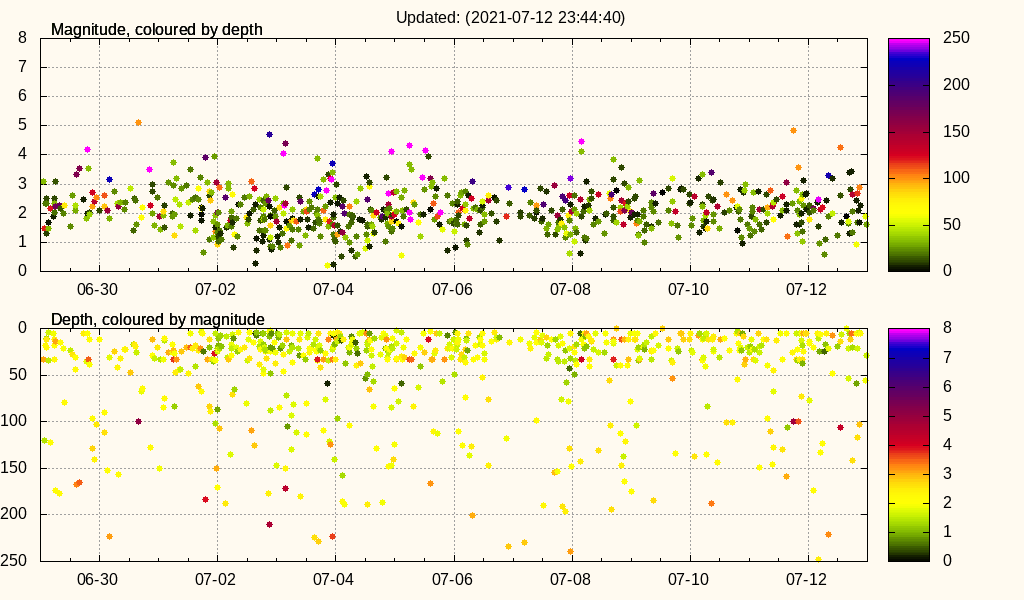
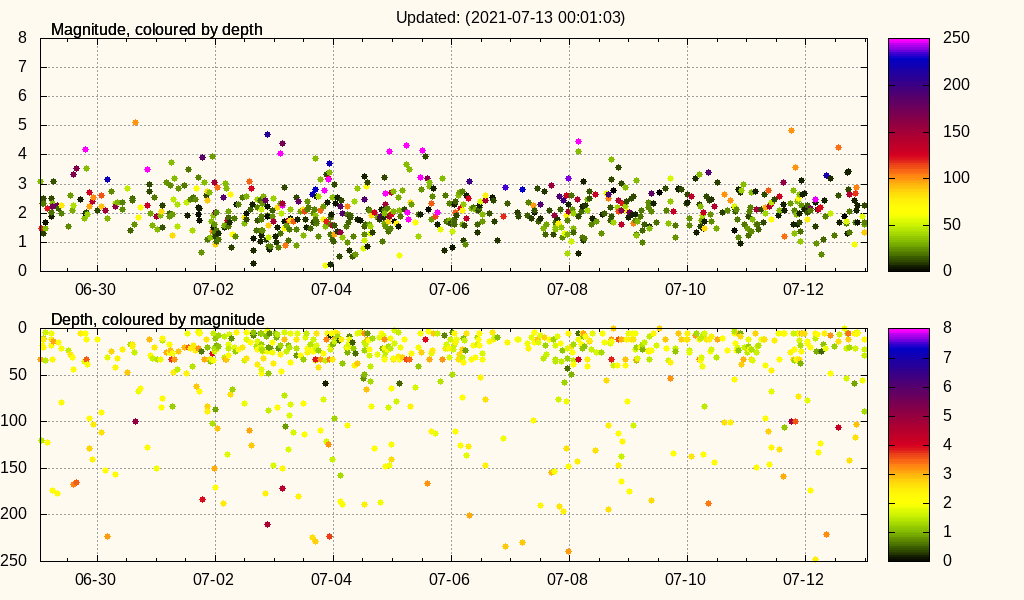
Quarter hourly

diff --git a/x-image.html b/x-image.html
@@ -38,9 +38,9 @@ td.border { border: 1px #330000 dashed; }
 <center>[ &lt;<a href="index.html" title="Main">Main</a>&gt; | &lt;<a href="image.html" title="Here">Re-load</a>&gt; ]</center>
 <dl><dt>All images on this page are in 2 parts:</dt> <dd>The upper part displays magnitude, coloured by depth.</dd> <dd>The lower part displays depth, coloured by magnitude.</dd></dl>
 <table summary="">
-<tr><td class="border"><table summary=""><tr><th align="left">Period</th> <td>:</td> <td>1 week</td></tr> <tr><td>Creation date</td> <td>:</td> <td>2021-07-12 23:44:41</td></tr></table> <a href="x-depth-magnitude-multiplot_week_0001.png" title="1 week" target="_blank"><img src="x-depth-magnitude-multiplot_week_0001.png" alt="1 week" title="1 week" /></a></td></tr>
-<tr><td class="border"><table summary=""><tr><th align="left">Period</th> <td>:</td> <td>2 weeks</td></tr> <tr><td>Creation date</td> <td>:</td> <td>2021-07-12 23:44:41</td></tr></table> <a href="x-depth-magnitude-multiplot_week_0002.png" title="2 weeks" target="_blank"><img src="x-depth-magnitude-multiplot_week_0002.png" alt="2 weeks" title="2 weeks" /></a></td></tr>
-<tr><td class="border"><table summary=""><tr><th align="left">Period</th> <td>:</td> <td>4 weeks</td></tr> <tr><td>Creation date</td> <td>:</td> <td>2021-07-12 23:44:41</td></tr></table> <a href="x-depth-magnitude-multiplot_week_0004.png" title="4 weeks" target="_blank"><img src="x-depth-magnitude-multiplot_week_0004.png" alt="4 weeks" title="4 weeks" /></a></td></tr>
+<tr><td class="border"><table summary=""><tr><th align="left">Period</th> <td>:</td> <td>1 week</td></tr> <tr><td>Creation date</td> <td>:</td> <td>2021-07-13 00:01:04</td></tr></table> <a href="x-depth-magnitude-multiplot_week_0001.png" title="1 week" target="_blank"><img src="x-depth-magnitude-multiplot_week_0001.png" alt="1 week" title="1 week" /></a></td></tr>
+<tr><td class="border"><table summary=""><tr><th align="left">Period</th> <td>:</td> <td>2 weeks</td></tr> <tr><td>Creation date</td> <td>:</td> <td>2021-07-13 00:01:04</td></tr></table> <a href="x-depth-magnitude-multiplot_week_0002.png" title="2 weeks" target="_blank"><img src="x-depth-magnitude-multiplot_week_0002.png" alt="2 weeks" title="2 weeks" /></a></td></tr>
+<tr><td class="border"><table summary=""><tr><th align="left">Period</th> <td>:</td> <td>4 weeks</td></tr> <tr><td>Creation date</td> <td>:</td> <td>2021-07-13 00:01:04</td></tr></table> <a href="x-depth-magnitude-multiplot_week_0004.png" title="4 weeks" target="_blank"><img src="x-depth-magnitude-multiplot_week_0004.png" alt="4 weeks" title="4 weeks" /></a></td></tr>
 <tr><td class="border"><table summary=""><tr><th align="left">Period</th> <td>:</td> <td>8 weeks</td></tr> <tr><td>Creation date</td> <td>:</td> <td>2021-07-12 23:17:02</td></tr></table> <a href="x-depth-magnitude-multiplot_week_0008.png" title="8 weeks" target="_blank"><img src="x-depth-magnitude-multiplot_week_0008.png" alt="8 weeks" title="8 weeks" /></a></td></tr>
 <tr><td class="border"><table summary=""><tr><th align="left">Period</th> <td>:</td> <td>16 weeks</td></tr> <tr><td>Creation date</td> <td>:</td> <td>2021-07-12 23:17:02</td></tr></table> <a href="x-depth-magnitude-multiplot_week_0016.png" title="16 weeks" target="_blank"><img src="x-depth-magnitude-multiplot_week_0016.png" alt="16 weeks" title="16 weeks" /></a></td></tr>
 <tr><td class="border"><table summary=""><tr><th align="left">Period</th> <td>:</td> <td>64 weeks</td></tr> <tr><td>Creation date</td> <td>:</td> <td>2021-07-12 23:17:02</td></tr></table> <a href="x-depth-magnitude-multiplot_week_0064.png" title="64 weeks" target="_blank"><img src="x-depth-magnitude-multiplot_week_0064.png" alt="64 weeks" title="64 weeks" /></a></td></tr>

diff --git a/image.html b/image.html
@@ -38,9 +38,9 @@ td.border { border: 1px #330000 dashed; }
 <center>[ &lt;<a href="index.html" title="Main">Main</a>&gt; | &lt;<a href="image.html" title="Here">Re-load</a>&gt; ]</center>
 <dl><dt>All images on this page are in 2 parts:</dt> <dd>The upper part displays magnitude, coloured by depth.</dd> <dd>The lower part displays depth, coloured by magnitude.</dd></dl>
 <table summary="">
-<tr><td class="border"><table summary=""><tr><th align="left">Period</th> <td>:</td> <td>1 week</td></tr> <tr><td>Creation date</td> <td>:</td> <td>2021-07-12 23:44:41</td></tr></table> <a href="depth-magnitude-multiplot_week_0001.png" title="1 week" target="_blank"><img src="depth-magnitude-multiplot_week_0001.png" alt="1 week" title="1 week" /></a></td></tr>
-<tr><td class="border"><table summary=""><tr><th align="left">Period</th> <td>:</td> <td>2 weeks</td></tr> <tr><td>Creation date</td> <td>:</td> <td>2021-07-12 23:44:41</td></tr></table> <a href="depth-magnitude-multiplot_week_0002.png" title="2 weeks" target="_blank"><img src="depth-magnitude-multiplot_week_0002.png" alt="2 weeks" title="2 weeks" /></a></td></tr>
-<tr><td class="border"><table summary=""><tr><th align="left">Period</th> <td>:</td> <td>4 weeks</td></tr> <tr><td>Creation date</td> <td>:</td> <td>2021-07-12 23:44:41</td></tr></table> <a href="depth-magnitude-multiplot_week_0004.png" title="4 weeks" target="_blank"><img src="depth-magnitude-multiplot_week_0004.png" alt="4 weeks" title="4 weeks" /></a></td></tr>
+<tr><td class="border"><table summary=""><tr><th align="left">Period</th> <td>:</td> <td>1 week</td></tr> <tr><td>Creation date</td> <td>:</td> <td>2021-07-13 00:01:04</td></tr></table> <a href="depth-magnitude-multiplot_week_0001.png" title="1 week" target="_blank"><img src="depth-magnitude-multiplot_week_0001.png" alt="1 week" title="1 week" /></a></td></tr>
+<tr><td class="border"><table summary=""><tr><th align="left">Period</th> <td>:</td> <td>2 weeks</td></tr> <tr><td>Creation date</td> <td>:</td> <td>2021-07-13 00:01:04</td></tr></table> <a href="depth-magnitude-multiplot_week_0002.png" title="2 weeks" target="_blank"><img src="depth-magnitude-multiplot_week_0002.png" alt="2 weeks" title="2 weeks" /></a></td></tr>
+<tr><td class="border"><table summary=""><tr><th align="left">Period</th> <td>:</td> <td>4 weeks</td></tr> <tr><td>Creation date</td> <td>:</td> <td>2021-07-13 00:01:04</td></tr></table> <a href="depth-magnitude-multiplot_week_0004.png" title="4 weeks" target="_blank"><img src="depth-magnitude-multiplot_week_0004.png" alt="4 weeks" title="4 weeks" /></a></td></tr>
 <tr><td class="border"><table summary=""><tr><th align="left">Period</th> <td>:</td> <td>8 weeks</td></tr> <tr><td>Creation date</td> <td>:</td> <td>2021-07-12 23:17:02</td></tr></table> <a href="depth-magnitude-multiplot_week_0008.png" title="8 weeks" target="_blank"><img src="depth-magnitude-multiplot_week_0008.png" alt="8 weeks" title="8 weeks" /></a></td></tr>
 <tr><td class="border"><table summary=""><tr><th align="left">Period</th> <td>:</td> <td>16 weeks</td></tr> <tr><td>Creation date</td> <td>:</td> <td>2021-07-12 23:17:02</td></tr></table> <a href="depth-magnitude-multiplot_week_0016.png" title="16 weeks" target="_blank"><img src="depth-magnitude-multiplot_week_0016.png" alt="16 weeks" title="16 weeks" /></a></td></tr>
 <tr><td class="border"><table summary=""><tr><th align="left">Period</th> <td>:</td> <td>64 weeks</td></tr> <tr><td>Creation date</td> <td>:</td> <td>2021-07-12 23:17:02</td></tr></table> <a href="depth-magnitude-multiplot_week_0064.png" title="64 weeks" target="_blank"><img src="depth-magnitude-multiplot_week_0064.png" alt="64 weeks" title="64 weeks" /></a></td></tr>

diff --git a/index.html b/index.html
@@ -65,12 +65,36 @@ td.depth { text-align: right; }
 </tr>
 <tr>
 	 <td align="left">&nbsp;</td> 
-	 <td align="left">11:44:39 pm</td> 
-	 <td align="right">9:10</td> 
+	 <td align="left">00:01:02 am</td> 
+	 <td align="right">2:25</td> 
 	 <td colspan="3">&nbsp;</td> 
 </tr>
 <tr>
 	 <td align="left">2021-07-12</td> 
+	 <td align="left">11:58:37 pm</td> 
+	 <td align="right">4:24</td> 
+	 <td class="magnitude05">2.25</td> 
+	 <td class="depth">12.03</td> 
+	 <td align="right"><a href="http://www.geonet.org.nz/quakes/region/newzealand/2021p520267" title="2021p520267" target="_blank" class="publicid">35 km west of Motueka</a></td> 
+</tr>
+<tr>
+	 <td align="left">&nbsp;</td> 
+	 <td align="left">11:54:13 pm</td> 
+	 <td align="right">1:59</td> 
+	 <td class="magnitude03">1.33</td> 
+	 <td class="depth">89.01</td> 
+	 <td align="right"><a href="http://www.geonet.org.nz/quakes/region/newzealand/2021p520258" title="2021p520258" target="_blank" class="publicid">25 km north-east of Ohakune</a></td> 
+</tr>
+<tr>
+	 <td align="left">&nbsp;</td> 
+	 <td align="left">11:52:14 pm</td> 
+	 <td align="right">16:45</td> 
+	 <td class="magnitude04">1.67</td> 
+	 <td class="depth">22.75</td> 
+	 <td align="right"><a href="http://www.geonet.org.nz/quakes/region/newzealand/2021p520255" title="2021p520255" target="_blank" class="publicid">15 km south-east of Pongaroa</a></td> 
+</tr>
+<tr>
+	 <td align="left">&nbsp;</td> 
 	 <td align="left">11:35:29 pm</td> 
 	 <td align="right">26:13</td> 
 	 <td class="magnitude04">1.62</td> 
